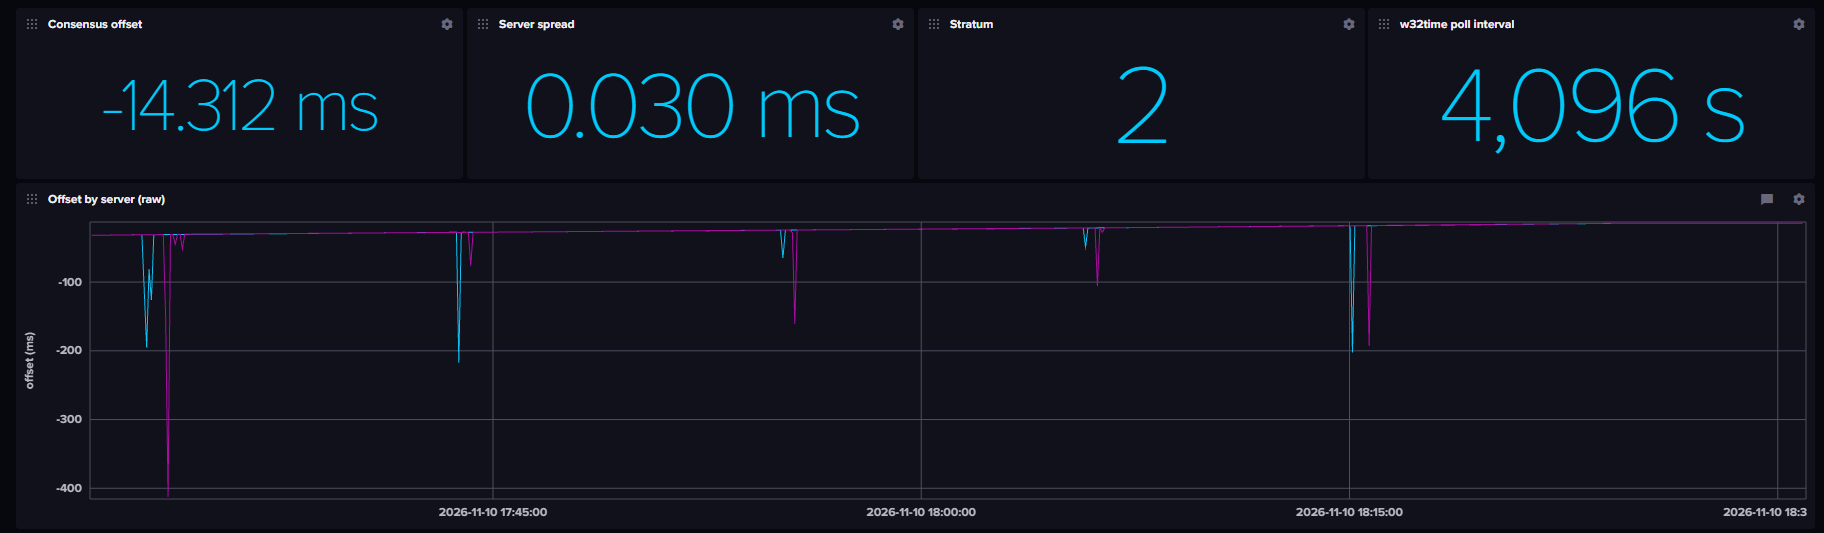
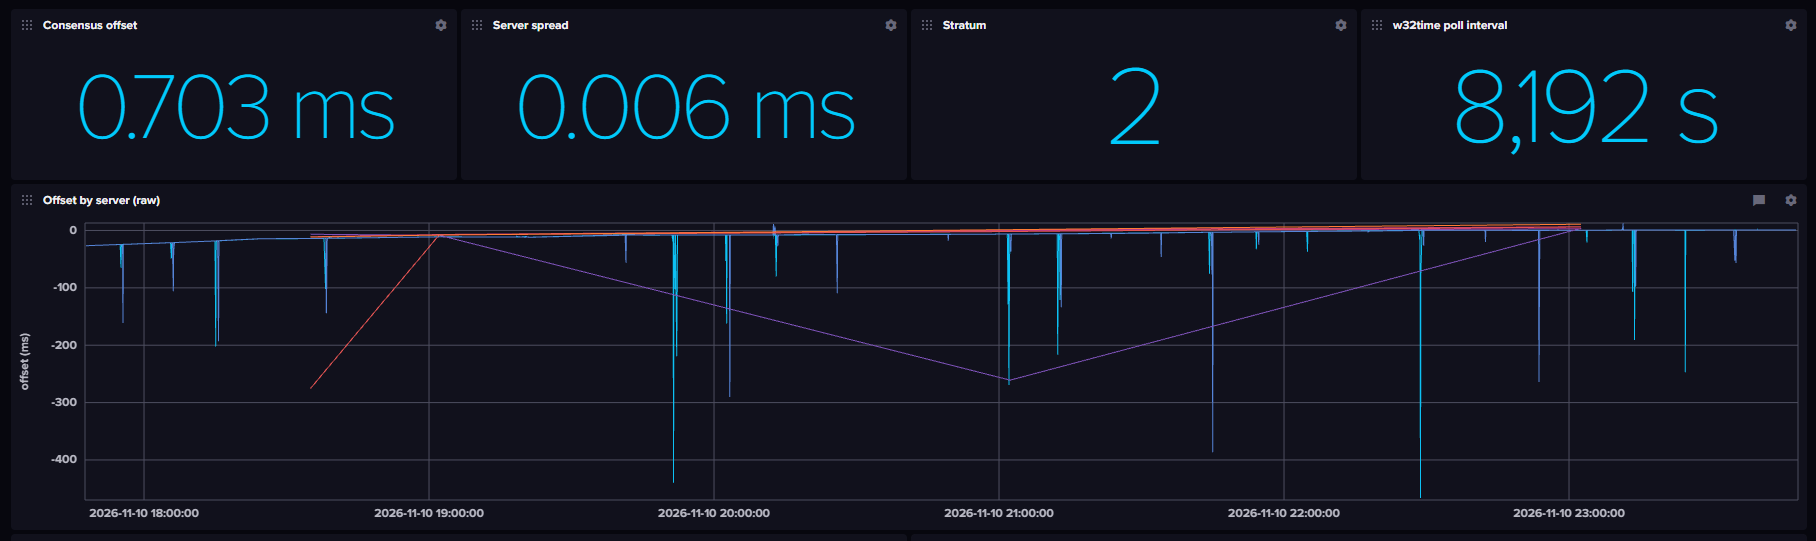
2022 dates, dashboard table columns, screenshots

diff --git a/TimeMonitor.py b/TimeMonitor.py
@@ -2,7 +2,7 @@
 # offset, delay and w32time status to InfluxDB.
 #
 # SPDX-License-Identifier: GPL-3.0-only
-# Copyright (C) 2023 Hank Karl
+# Copyright (C) 2022 Hank Karl
 #
 # This program is free software: you can redistribute it and/or modify
 # it under the terms of the GNU General Public License as published by

diff --git a/README.md b/README.md
@@ -1,6 +1,6 @@
 # TimeMonitor
 
-A test program from 2023. Windows keeps its clock in sync with w32time, but gives little sign of how accurate the clock actually is. TimeMonitor measures it: it compares the PC's clock with several NTP servers, local and public, records the results in InfluxDB, and comes with an InfluxDB dashboard that shows drift, network noise and how far the clock can be trusted. It needs only Python and Windows' own `w32tm` tool, plus the `influxdb-client` package for InfluxDB output.
+A test program from 2022. Windows keeps its clock in sync with w32time, but gives little sign of how accurate the clock actually is. TimeMonitor measures it: it compares the PC's clock with several NTP servers, local and public, records the results in InfluxDB, and comes with an InfluxDB dashboard that shows drift, network noise and how far the clock can be trusted. It needs only Python and Windows' own `w32tm` tool, plus the `influxdb-client` package for InfluxDB output.
 
 Every few seconds it:
 
@@ -109,6 +109,8 @@ The dashboard assumes one monitored PC per bucket. The graphs label lines by ser
 
 **Offset by server (raw):** every sample from every server, in ms. Shows the true picture, noise included.
 
+![Lowest-delay offset, public servers, uncertainty band and round-trip delay panels](docs/dashboard-graphs.png)
+
 **Offset, lowest-delay sample per minute:** for each server, only the sample with the smallest round-trip delay in each minute. A sample that took longer is more likely to have been delayed one way more than the other, which shows up as a false offset. Picking the fastest sample is the same idea NTP uses to filter its samples. Read the clock's behavior from this graph.
 
 **Public servers (last value held):** servers with public addresses. They are sampled rarely, so each value is drawn as a step that holds until the next sample.
@@ -116,6 +118,8 @@ The dashboard assumes one monitored PC per bucket. The graphs label lines by ser
 **Offset +/- delay/2, local servers:** for servers with private addresses (10.x, 172.16–31.x, 192.168.x), three lines each: the offset, and the offset minus and plus half the round-trip delay. The program cannot tell how the delay splits between the trip out and the trip back, so the true offset lies somewhere between the low and high lines. That range is how far the clock can be trusted.
 
 **Round-trip delay by server:** network delay in ms. Use it to explain spikes in the raw offset graph.
+
+![w32time status, latest sample per server, stratum and poll interval panels](docs/dashboard-tables.png)
 
 **w32time status:** the latest Windows Time status for the PC: stratum, source, reference IP, poll interval and last successful sync.
 
